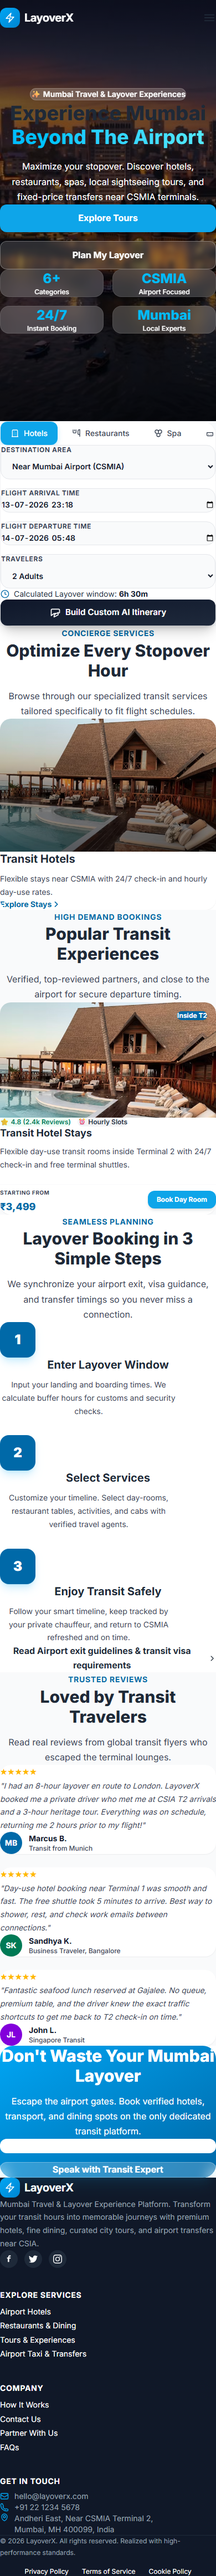
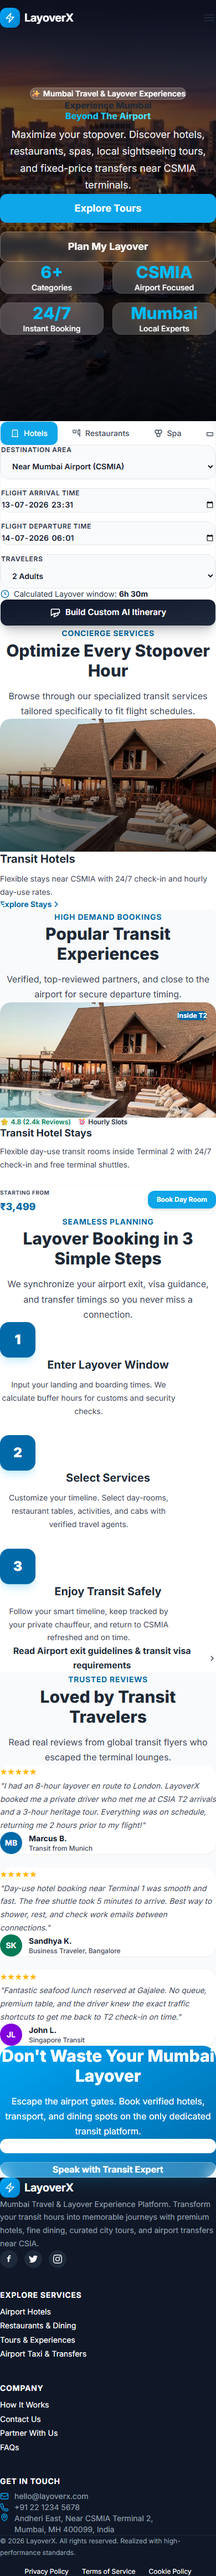
update

Changed region(s): [[0.0, 0.0312, 1.0, 0.1248], [0.3077, 0.1871, 0.3385, 0.2183]]

diff --git a/frontend/index.html b/frontend/index.html
@@ -258,36 +258,36 @@
   <div class="absolute inset-0 bg-gradient-to-b from-black/70 via-black/40 to-black/75" aria-hidden="true"></div>
   <div class="relative z-10 text-center px-4 py-20 max-w-4xl mx-auto">
     <div class="reveal">
-      <span class="inline-flex items-center gap-2 bg-white/20 backdrop-blur-md border border-white/20 text-white px-4 py-2 rounded-full text-sm font-semibold mb-6">
+      <span class="inline-flex items-center gap-2 bg-white/20 backdrop-blur-md border border-white/20 text-white px-5 py-2.5 rounded-full text-sm sm:text-base font-semibold mb-8">
         ✨ Mumbai Travel & Layover Experiences
       </span>
     </div>
-    <h1 class="reveal text-4xl sm:text-5xl md:text-7xl font-extrabold text-white mb-6 leading-tight">
+    <h1 class="reveal text-5xl sm:text-6xl md:text-8xl font-extrabold text-white mb-6 leading-[1.1]">
       Experience Mumbai<br/><span class="bg-gradient-to-r from-sky-400 to-cyan-300 bg-clip-text text-transparent">Beyond The Airport</span>
     </h1>
-    <p class="reveal text-base sm:text-lg md:text-xl text-white max-w-2xl mx-auto mb-10 leading-relaxed">
+    <p class="reveal text-lg sm:text-xl md:text-2xl text-white/90 max-w-2xl mx-auto mb-10 leading-relaxed">
       Maximize your stopover. Discover hotels, restaurants, spas, local sightseeing tours, and fixed-price transfers near CSMIA terminals.
     </p>
     <div class="reveal flex flex-col sm:flex-row items-center justify-center gap-4 mb-12">
-      <a href="experiences.html" class="w-full sm:w-auto px-8 py-4 bg-sky-700 hover:bg-sky-700 text-white font-bold rounded-xl shadow-lg hover:shadow-xl transition transform hover:-translate-y-0.5 text-center">Explore Tours</a>
-      <a href="plan-my-layover.html" class="w-full sm:w-auto px-8 py-4 bg-white/15 hover:bg-white/25 text-white font-bold rounded-xl border border-white/30 transition transform hover:-translate-y-0.5 text-center backdrop-blur-md">Plan My Layover</a>
+      <a href="experiences.html" class="w-full sm:w-auto px-8 py-4 bg-sky-700 hover:bg-sky-700 text-white font-bold text-lg rounded-xl shadow-lg hover:shadow-xl transition transform hover:-translate-y-0.5 text-center">Explore Tours</a>
+      <a href="plan-my-layover.html" class="w-full sm:w-auto px-8 py-4 bg-white/15 hover:bg-white/25 text-white font-bold text-lg rounded-xl border border-white/30 transition transform hover:-translate-y-0.5 text-center backdrop-blur-md">Plan My Layover</a>
     </div>
-    <div class="reveal grid grid-cols-2 md:grid-cols-4 gap-4 max-w-3xl mx-auto pb-24">
-      <div class="bg-white/20 backdrop-blur-md border border-white/10 rounded-2xl p-5 text-center">
-        <div class="text-2xl sm:text-3xl font-extrabold text-sky-400 mb-1">6+</div>
-        <div class="text-white text-xs sm:text-sm font-medium">Categories</div>
+    <div class="reveal grid grid-cols-2 md:grid-cols-4 gap-4 sm:gap-5 max-w-3xl mx-auto pb-24">
+      <div class="bg-white/20 backdrop-blur-md border border-white/10 rounded-2xl p-5 sm:p-6 text-center">
+        <div class="text-3xl sm:text-4xl md:text-5xl font-extrabold text-sky-400 mb-1">6+</div>
+        <div class="text-white text-sm sm:text-base font-medium">Categories</div>
       </div>
-      <div class="bg-white/20 backdrop-blur-md border border-white/10 rounded-2xl p-5 text-center">
-        <div class="text-2xl sm:text-3xl font-extrabold text-sky-400 mb-1">CSMIA</div>
-        <div class="text-white text-xs sm:text-sm font-medium">Airport Focused</div>
+      <div class="bg-white/20 backdrop-blur-md border border-white/10 rounded-2xl p-5 sm:p-6 text-center">
+        <div class="text-3xl sm:text-4xl md:text-5xl font-extrabold text-sky-400 mb-1">CSMIA</div>
+        <div class="text-white text-sm sm:text-base font-medium">Airport Focused</div>
       </div>
-      <div class="bg-white/20 backdrop-blur-md border border-white/10 rounded-2xl p-5 text-center">
-        <div class="text-2xl sm:text-3xl font-extrabold text-sky-400 mb-1">24/7</div>
-        <div class="text-white text-xs sm:text-sm font-medium">Instant Booking</div>
+      <div class="bg-white/20 backdrop-blur-md border border-white/10 rounded-2xl p-5 sm:p-6 text-center">
+        <div class="text-3xl sm:text-4xl md:text-5xl font-extrabold text-sky-400 mb-1">24/7</div>
+        <div class="text-white text-sm sm:text-base font-medium">Instant Booking</div>
       </div>
-      <div class="bg-white/20 backdrop-blur-md border border-white/10 rounded-2xl p-5 text-center">
-        <div class="text-2xl sm:text-3xl font-extrabold text-sky-400 mb-1">Mumbai</div>
-        <div class="text-white text-xs sm:text-sm font-medium">Local Experts</div>
+      <div class="bg-white/20 backdrop-blur-md border border-white/10 rounded-2xl p-5 sm:p-6 text-center">
+        <div class="text-3xl sm:text-4xl md:text-5xl font-extrabold text-sky-400 mb-1">Mumbai</div>
+        <div class="text-white text-sm sm:text-base font-medium">Local Experts</div>
       </div>
     </div>
   </div>
